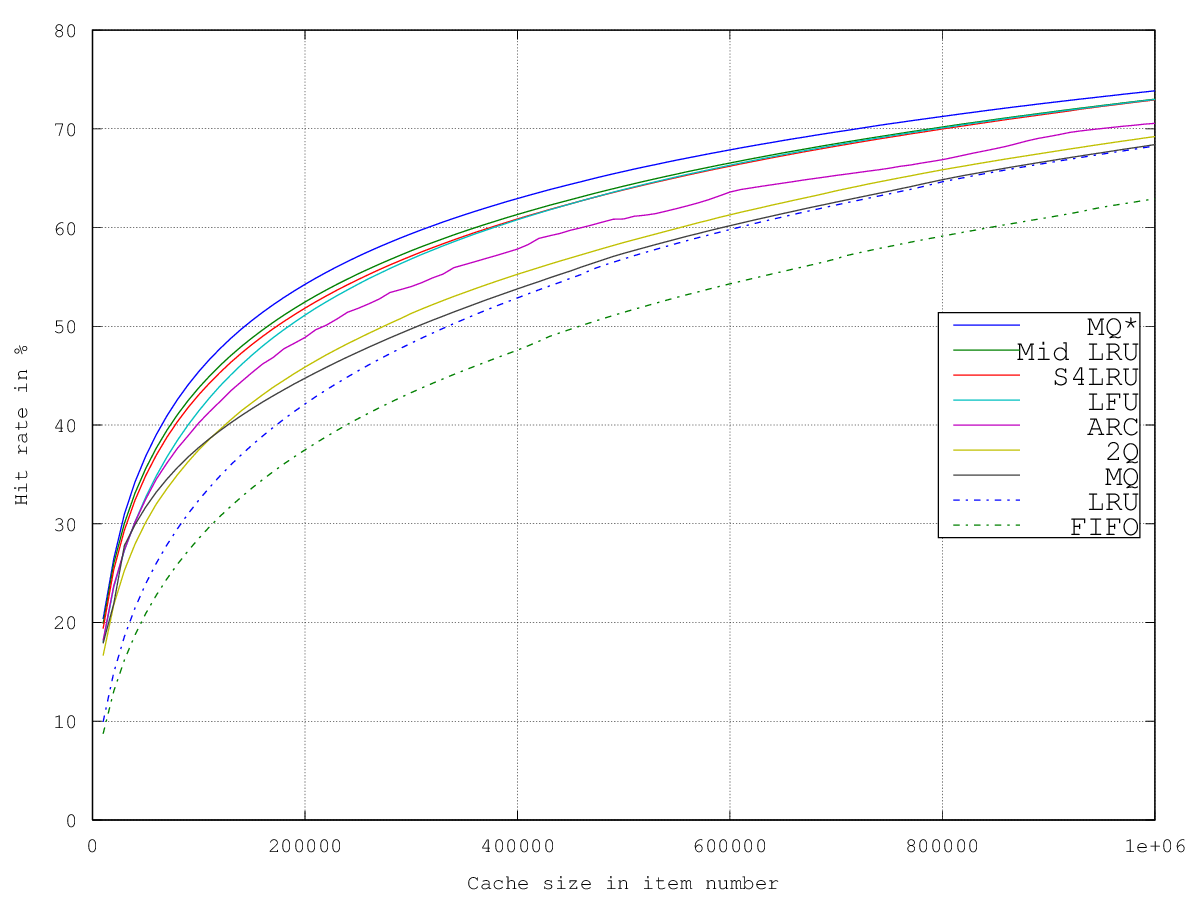
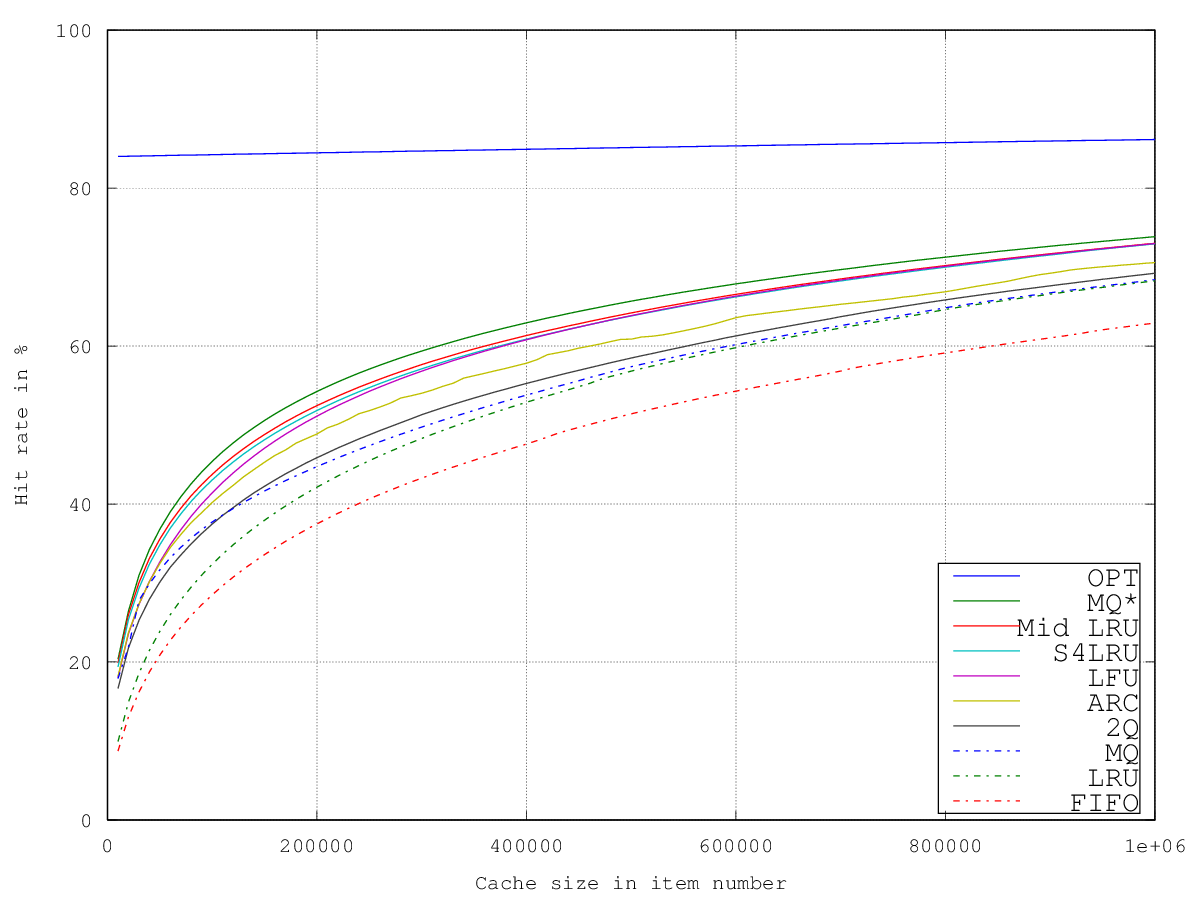
OPT cache data and plot

diff --git a/cache/alg/hitrate/plot_hitrate.m b/cache/alg/hitrate/plot_hitrate.m
@@ -9,20 +9,22 @@ mid = load("mid.txt")(:, 2);
 mq = load("mq.txt")(:, 2);
 mq_wo_exp = load("mq_wo_exp.txt")(:, 2);
 s4lru = load("s4lru.txt")(:, 2);
+opt = load("opt.txt")(:, 2);
 
-plot(x, mq_wo_exp, 'linewidth', 2,
+plot(x, opt, 'linewidth', 2,
+     x, mq_wo_exp, 'linewidth', 2,
      x, mid, 'linewidth', 2,
      x, s4lru, 'linewidth', 2,
      x, lfu, 'linewidth', 2,
      x, arc, 'linewidth', 2,
      x, tq, 'linewidth', 2,
-     x, mq, 'linewidth', 2,
+     x, mq, '-.', 'linewidth', 2,
      x, lru, '-.', 'linewidth', 2,
      x, fifo, '-.', 'linewidth', 2);
 
-l = legend('MQ*','Mid LRU','S4LRU','LFU','ARC','2Q',
+l = legend('OPT', 'MQ*','Mid LRU','S4LRU','LFU','ARC','2Q',
        'MQ','LRU', 'FIFO',
-       'location', 'east');
+       'location', 'southeast');
  
 set(l, 'fontsize', 14);
 
